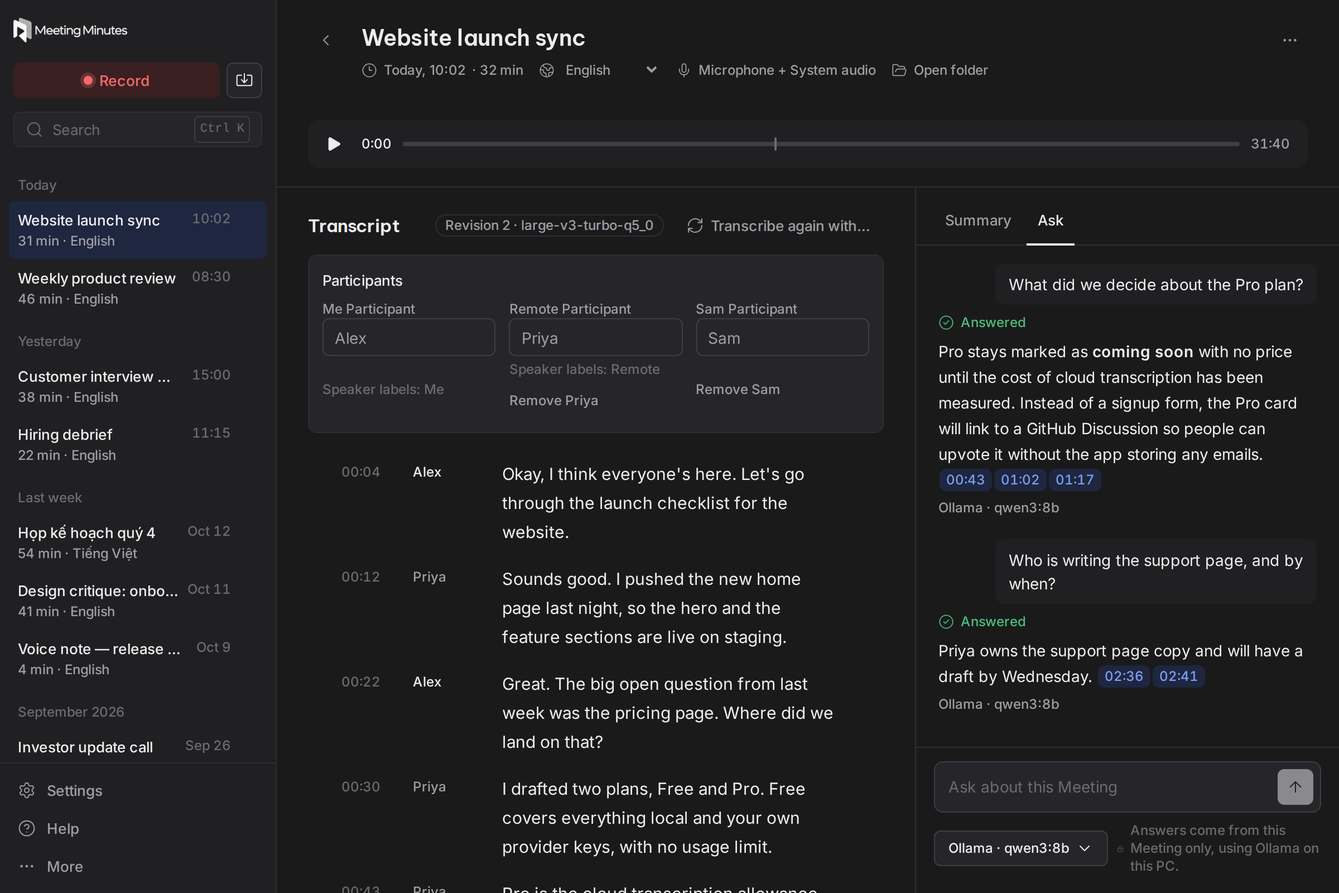
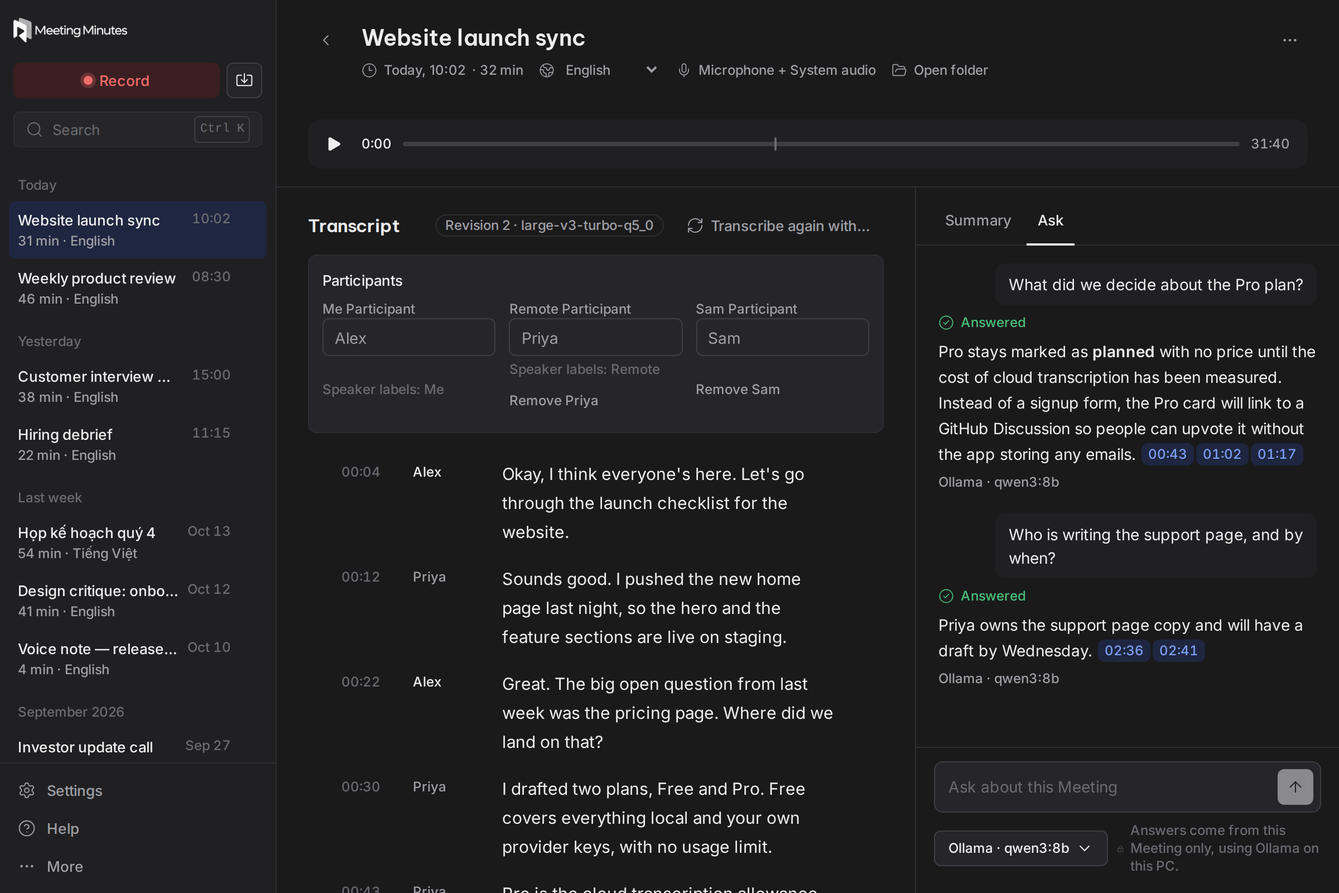
Prepare the 1.0.0 release: direct download with SHA-256, professional wording, release notes and current screenshots

Changed region(s): [[0.6875, 0.375, 0.9688, 0.8125], [0.125, 0.7188, 0.1562, 0.75]]

diff --git a/website/src/home.html b/website/src/home.html
@@ -1,6 +1,6 @@
 <section class="hero"><div class="wrap">
   <h1>Your meetings, written down.</h1>
-  <p class="lede">Record a call on Windows. Meeting Minutes transcribes it locally or with your own cloud key, then links Answers to Transcript Segments.</p>
+  <p class="lede">Record a call on Windows or Import audio. Meeting Minutes transcribes it locally or with your own cloud key, then links Answers to Transcript Segments.</p>
   <div class="cta">{{HERO_ACTION}}</div>
 </div></section>
 <div class="hero-shot wrap">{{SCREEN_MEETING}}</div>
@@ -9,14 +9,14 @@
   <h2>Everything a meeting leaves behind, without taking notes</h2>
   <div class="three">
     <div><h3>Record any call</h3><p>Zoom, Teams, Meet or a phone on speaker. It records your Microphone and what your PC plays, so there is nothing to install in the meeting.</p></div>
-    <div><h3>Transcription your way</h3><p>English, Vietnamese, Spanish, French, German, Portuguese, Italian, Japanese, Korean, Chinese and Hindi. Auto-detect the Meeting language, use local Whisper, or add your own Groq or Gemini key for cloud transcription.</p></div>
+    <div><h3>Transcription your way</h3><p>English, Vietnamese, Spanish, French, German, Portuguese, Italian, Japanese, Korean, Chinese and Hindi. Auto-detect the Meeting language, use local Whisper, or add your own Groq or Gemini key for cloud transcription. Download or delete local models in Settings, or re-transcribe with one chosen Speech-to-text model.</p></div>
     <div><h3>Answers you can check</h3><p>Summary items and Answers include Citations to Transcript Segments. Click a Citation to hear the source.</p></div>
   </div>
 </div></section>
 
 <section class="section alt"><div class="wrap">
   <h2>See what matters in each Meeting</h2>
-  <div class="split"><div class="copy"><h3>Ask about one Meeting</h3><p>What did we decide? Who owns the next step? Answers must cite Segments from that Meeting. The app flags invalid Citations and shows “Insufficient evidence” when nothing in the Transcript supports an answer.</p></div>{{SCREEN_ASK}}</div>
+  <div class="split"><div class="copy"><h3>Ask about one Meeting</h3><p>What did we decide? Who owns the next step? Choose a Language model for each Ask or Summary. Answers must cite Segments from that Meeting. The app flags invalid Citations and shows “Insufficient evidence” when nothing in the Transcript supports an answer.</p></div>{{SCREEN_ASK}}</div>
   <div class="split flip"><div class="copy"><h3>A Transcript you can fix</h3><p>See who spoke, you or the other side. Correct a word and the Citations still point to the right place. Play any Segment with one click.</p></div>{{SCREEN_TRANSCRIPT}}</div>
   <div class="split"><div class="copy"><h3>Find a moment in your Library</h3><p>Search keywords across your Meetings’ Transcripts. Open a result to jump to the matching Segment.</p></div>{{SCREEN_SEARCH}}</div>
 </div></section>
@@ -24,7 +24,7 @@
 <section class="section privacy-section"><div class="wrap">
   <h2>Private by default, in plain words</h2>
   <div class="privacy-grid">
-    <div><h3>Your Library stays on your PC</h3><p>Your Meeting files stay in your Library. With your keys, Groq can receive audio for transcription; Gemini can receive audio for fallback transcription or Transcript text for Correction.</p></div>
+    <div><h3>Your Library stays on your PC</h3><p>Your Meeting files stay in your Library as plain files. The Privacy tab in the app shows where data can leave your PC. With your keys, Groq can receive audio for transcription; Gemini can receive audio for fallback transcription or Transcript text for Correction.</p></div>
     <div><h3>Your own cloud keys</h3><p>Summary, Action items and Ask can use Gemini, OpenAI or Anthropic. The app asks before sending a Meeting. Gemini's free tier may use content for training.</p></div>
     <div><h3>Managed transcription is experimental</h3><p>You can request a Managed key, which is issued by hand. Saving it in Settings allows audio to go to the Meeting Minutes service. The app has no telemetry. <a href="/request-a-key/">Request a key</a>.</p></div>
   </div>
@@ -40,7 +40,7 @@
     <div class="faq-item"><h3><button aria-expanded="true" aria-controls="faq-upload">Does anything get uploaded?<span class="plus" aria-hidden="true">+</span></button></h3><div class="answer" id="faq-upload"><div class="answer-inner">Local Processing stays on your PC. With a Groq key, audio goes to Groq for transcription; Gemini can receive audio for fallback transcription and Transcript text for Correction. If you save a Managed key, audio goes to the Meeting Minutes service for transcription, which forwards it to Groq. The app asks before sending a Meeting for a cloud Summary or Ask. Model downloads and update checks also use the internet. <a href="/privacy/">Read the privacy policy</a>.</div></div></div>
     <div class="faq-item"><h3><button aria-expanded="true" aria-controls="faq-warn">Why does Windows warn me when I install it?<span class="plus" aria-hidden="true">+</span></button></h3><div class="answer" id="faq-warn"><div class="answer-inner">The installer is unsigned. See the <a href="/support/#smartscreen">SmartScreen instructions</a> before installing.</div></div></div>
     <div class="faq-item"><h3><button aria-expanded="true" aria-controls="faq-lang">Which languages does it understand?<span class="plus" aria-hidden="true">+</span></button></h3><div class="answer" id="faq-lang"><div class="answer-inner">English, Vietnamese, Spanish, French, German, Portuguese, Italian, Japanese, Korean, Chinese and Hindi. Choose one for a Meeting or let the app detect it automatically.</div></div></div>
-    <div class="faq-item"><h3><button aria-expanded="true" aria-controls="faq-pc">Do I need a powerful PC?<span class="plus" aria-hidden="true">+</span></button></h3><div class="answer" id="faq-pc"><div class="answer-inner">The setup guide recommends a transcription model for your hardware. Larger models need more memory and time.</div></div></div>
+    <div class="faq-item"><h3><button aria-expanded="true" aria-controls="faq-pc">Do I need a powerful PC?<span class="plus" aria-hidden="true">+</span></button></h3><div class="answer" id="faq-pc"><div class="answer-inner">First-run setup can be skipped. The guide recommends a transcription model for your hardware, and you can download or delete local models later in Settings. Larger models need more memory and time.</div></div></div>
     <div class="faq-item"><h3><button aria-expanded="true" aria-controls="faq-uninstall">How do I uninstall it, and do I keep my meetings?<span class="plus" aria-hidden="true">+</span></button></h3><div class="answer" id="faq-uninstall"><div class="answer-inner">Uninstall it from Windows Settings → Apps. Your Library in Documents\Meeting Minutes stays. The uninstaller offers a separate option to remove app data.</div></div></div>
   </div>
 </div></section>

diff --git a/website/src/support.html b/website/src/support.html
@@ -1,19 +1,19 @@
 <article class="doc"><h1>Support</h1><p class="updated">Help with Meeting Minutes for Windows</p>
-  <h2>Write to us</h2><p>Email Duc Dao at <a href="mailto:admin@meeting-minutes.tech">admin@meeting-minutes.tech</a>.</p>
+  <h2>Write to us</h2><p>Contact: <a href="mailto:admin@meeting-minutes.tech">admin@meeting-minutes.tech</a>.</p>
   <div class="copybox"><span id="support-email" tabindex="-1">admin@meeting-minutes.tech</span><button class="button secondary copy-button" type="button" data-copy="support-email">Copy</button></div><p class="copy-result" role="status" aria-live="polite"></p>
   <p>Or <a href="https://github.com/ducdv98/meeting-minutes/issues">open an issue on GitHub</a>. GitHub issues are public; email is private.</p>
   <h2>Managed transcription</h2><p>Managed transcription is experimental. <a href="/request-a-key/">Request a key</a> if you would like to try it. Keys are issued by hand; we cannot promise a reply or turnaround time.</p>
   <h2>Include diagnostics</h2><ol class="steps"><li><div>In the app, open Help.</div></li><li><div>Choose Copy diagnostics.</div></li><li><div>Paste it into your message. It includes versions, devices and recent log lines, not Transcript text or keys.</div></li></ol>
   <div class="support-shot">{{SCREEN_DIAGNOSTICS}}</div>
-  <h2>Choose a transcription model</h2><p>The first-run guide recommends a model for your PC. You can review the choice before downloading it.</p>
+  <h2>Choose a transcription model</h2><p>First-run setup can be skipped. The guide recommends a model for your PC. You can review the choice before downloading it, then download or delete local models in Settings.</p>
   <div class="support-shot">{{SCREEN_FIRSTRUN_MODEL}}</div>
   <h2 id="smartscreen">Windows says it protected your PC</h2><p>Meeting Minutes is free and its source is public. The installer is unsigned because we do not use a paid code-signing certificate. Windows SmartScreen may warn you. Download it only from this site or the <a href="https://github.com/ducdv98/meeting-minutes/releases">GitHub Releases page</a>. After checking the file and deciding you trust it, choose <strong>More info</strong> and <strong>Run anyway</strong> if Windows offers those options.</p>
-  <h2>Verify the installer</h2><ol class="steps">
+  <h2>Verify your download</h2><ol class="steps">
     <li><div>Download the installer and its matching <code>.sha256</code> file from the same GitHub Release.</div></li>
-    <li><div>In PowerShell, run this command, replacing <code>installer.exe</code> with the downloaded file name. Compare the hash with the first value in the <code>.sha256</code> file.
-      <pre class="command"><code>Get-FileHash ".\installer.exe" -Algorithm SHA256</code></pre></div></li>
+    <li><div>In PowerShell, run this command, replacing <code>&lt;installer&gt;</code> with the downloaded file name. Compare the hash with the first value in the <code>.sha256</code> file.
+      <pre class="command"><code>Get-FileHash .\&lt;installer&gt; -Algorithm SHA256</code></pre></div></li>
     <li><div>With the <a href="https://cli.github.com/">GitHub CLI</a>, run this command using the same file name. This checks that GitHub's release workflow produced that installer.
-      <pre class="command"><code>gh attestation verify ".\installer.exe" --repo ducdv98/meeting-minutes</code></pre></div></li>
+      <pre class="command"><code>gh attestation verify &lt;installer&gt; --repo ducdv98/meeting-minutes</code></pre></div></li>
   </ol>
   <p>You can also <a href="https://github.com/ducdv98/meeting-minutes#develop-and-build-on-windows">build it yourself</a> from the public source.</p>
   <h2>Uninstalling</h2><p>Use Settings → Apps in Windows. Your Library in Documents\Meeting Minutes is kept. The uninstaller offers an unticked option to remove downloaded models, settings and the search index.</p>

diff --git a/scripts/screenshots/demo-data.ts b/scripts/screenshots/demo-data.ts
@@ -53,7 +53,7 @@ const lines: [Segment["speaker"], number, number, string][] = [
   ["remote", 53, 61, "I'd still like a way for people to tell us they want Pro, though, without building a signup form."],
   ["me", 62, 70, "What if the Pro card links to a GitHub Discussion? People can upvote it and we don't store any emails."],
   ["remote", 71, 76, "That works for me. It keeps the privacy page simple too."],
-  ["remote", 77, 88, "Agreed. Let's do the Discussion link, and keep Pro marked as coming soon until checkout actually exists."],
+  ["remote", 77, 88, "Agreed. Let's do the Discussion link, and keep Pro marked as planned until checkout actually exists."],
   ["me", 89, 95, "Decided, then. Next: screenshots. The site still has placeholder frames."],
   ["remote", 96, 108, "I can script them. Run the app with demo data, capture light and dark at twelve hundred by eight hundred."],
   ["me", 109, 116, "Can you have them ready by Thursday? I want the launch post drafted by Friday."],
@@ -119,7 +119,7 @@ export const summary: Summary = {
     { text: "The large turbo model handles Spanish and Japanese well; the small model struggles with Japanese names.", citations: cite("s00020") },
   ],
   decisions: [
-    { text: "The Pro card links to a GitHub Discussion instead of a signup form, and stays marked as coming soon.", citations: cite("s00007", "s00009") },
+    { text: "The Pro card links to a GitHub Discussion instead of a signup form, and stays marked as planned.", citations: cite("s00007", "s00009") },
     { text: "Every release gets a SHA-256 checksum and build attestation.", citations: cite("s00015", "s00016") },
     { text: "First-run setup recommends the turbo model for non-English languages.", citations: cite("s00021", "s00022") },
   ],
@@ -142,7 +142,7 @@ export const asks: AskView = {
       provider: "ollama",
       model: "qwen3:8b",
       state: "answered",
-      answer: "Pro stays marked as **coming soon** with no price until the cost of cloud transcription has been measured. Instead of a signup form, the Pro card will link to a GitHub Discussion so people can upvote it without the app storing any emails.",
+      answer: "Pro stays marked as **planned** with no price until the cost of cloud transcription has been measured. Instead of a signup form, the Pro card will link to a GitHub Discussion so people can upvote it without the app storing any emails.",
       citations: cite("s00005", "s00007", "s00009"),
       invalid_citations: [],
       error: null,

diff --git a/src/HelpView.tsx b/src/HelpView.tsx
@@ -67,7 +67,7 @@ export default function HelpView({ onOpenGuide }: { onOpenGuide?: () => void }) 
         <Wordmark className="h-10 w-[210px]" />
         <dl className="m-0 grid grid-cols-[180px_1fr] gap-x-4 gap-y-2 text-sm tabular-nums">
           <dt className="text-ink-muted">Version</dt><dd className="m-0">{info ? info.version : infoFailed ? "Unknown" : <Skeleton className="h-4 w-16" />}</dd>
-          <dt className="text-ink-muted">Made by</dt><dd className="m-0">Duc Dao</dd>
+          <dt className="text-ink-muted">Copyright</dt><dd className="m-0">© 2026 Meeting Minutes · Duc Dao</dd>
           <dt className="text-ink-muted">Support</dt><dd className="m-0"><button type="button" className={linkClass} onClick={() => void open("support")}>admin@meeting-minutes.tech</button></dd>
           <dt className="text-ink-muted">Privacy</dt><dd className="m-0"><button type="button" className={linkClass} onClick={() => void open("privacy")}>meeting-minutes.tech/privacy</button></dd>
         </dl>

diff --git a/website/src/style.css b/website/src/style.css
@@ -25,6 +25,7 @@
 .copybox span:focus{outline:2px solid var(--accent);outline-offset:2px}
 @media(max-width:1100px){.header-download span{display:none}}
 .split:not(:has(.screenshot)),.split.flip:not(:has(.screenshot)){grid-template-columns:1fr}.split.flip:not(:has(.screenshot)) .copy{order:0}.hero-shot:empty,.support-shot:empty{display:none}
+.cta .checksum{max-width:100%;overflow-wrap:anywhere}.cta .checksum code{font-size:inherit}
 .hero{animation:none}.hero h1,.hero .lede,.hero .cta{animation:hero-fly-in 700ms var(--ease) both}.hero .lede{animation-delay:120ms}.hero .cta{animation-delay:240ms}
 @keyframes hero-fly-in{from{opacity:0;transform:translateY(36px)}to{opacity:1;transform:none}}
 .hero-shot{animation:shot-arrive 850ms var(--ease) 300ms both}.hero-shot .screenshot{animation:shot-float 2.4s ease-in-out 1150ms infinite alternate}

diff --git a/src/HelpView.test.tsx b/src/HelpView.test.tsx
@@ -17,12 +17,14 @@ beforeEach(() => {
 });
 afterEach(() => { cleanup(); vi.resetAllMocks(); });
 
-it("shows the app version without a release badge", async () => {
+it("shows the app version and copyright", async () => {
   render(<HelpView />);
   const about = screen.getByRole("region", { name: "About" });
   expect(await within(about).findByText("0.1.7")).toBeTruthy();
   expect(within(about).queryByText("Beta")).toBeNull();
-  expect(within(about).getByText("Duc Dao")).toBeTruthy();
+  expect(within(about).getByText("Copyright")).toBeTruthy();
+  expect(within(about).getByText("© 2026 Meeting Minutes · Duc Dao")).toBeTruthy();
+  expect(within(about).queryByText("Made by")).toBeNull();
 });
 
 it("copies fresh diagnostics before opening a prefilled GitHub issue", async () => {

diff --git a/website/src/pricing.html b/website/src/pricing.html
@@ -15,7 +15,7 @@
     </article>
     <article class="plan-card">
       <h2>Pro plan</h2>
-      <p class="plan-status">Coming soon</p>
+      <p class="plan-status">Planned</p>
       <p>Pro is planned with a larger Managed transcription allowance. It is not available to purchase yet.</p>
       <p><a class="button secondary" href="https://github.com/ducdv98/meeting-minutes/discussions">I'd pay for Pro</a></p>
     </article>

diff --git a/website/src/privacy.html b/website/src/privacy.html
@@ -51,5 +51,5 @@
 
   <h2>Children</h2><p>Meeting Minutes is not directed at children.</p>
   <h2>Changes</h2><p>Changes to this policy will be posted here with a new last-updated date.</p>
-  <h2>Contact</h2><p>Duc Dao · <a href="mailto:admin@meeting-minutes.tech">admin@meeting-minutes.tech</a></p>
+  <h2>Contact</h2><p>Contact: <a href="mailto:admin@meeting-minutes.tech">admin@meeting-minutes.tech</a></p>
 </article>

diff --git a/website/DESIGN.md b/website/DESIGN.md
@@ -26,22 +26,22 @@ In this order:
 
 1. **Hero.** Headline (`--display`, sentence case, at most two lines), one sentence beneath it (`--text-lg`, `--ink-muted`), the primary action, and a status line under the button.
    - Headline direction: "Your meetings, written down and on your PC." Final copy follows the voice rules.
-   - Primary action, when a Release is published: "Download for Windows" (ink primary button) with the version and size under it, plus "Windows 11 · Free · unsigned, see why" linking to the SmartScreen note.
-   - With no published Release: no download button. Say only that the Windows app is coming.
+   - Primary action, when a Release is published: "Download for Windows" (ink primary button) with version, size, “Windows 11, 64-bit”, the SHA-256 from its matching Release asset, and the unsigned SmartScreen note beneath it.
+   - With no published Release: no download button. Show a neutral “No public download available” status.
    - Below: a large real screenshot of the Meeting view (Transcript, Summary with Citations), `--radius-lg`, 1px `--line` edge, no device frame, light screenshot in light mode and dark in dark.
 2. **What it does.** Three short blocks in a row (stacked on mobile), each a `--heading-sm` title and one or two sentences, no icons in bubbles: Record any call (Microphone and System audio, any meeting app). Transcription your way (the eleven Meeting languages with Auto-detect; local Whisper by default, or the user's own Groq or Gemini key). Answers with Citations (every Summary item and Answer points to the moment it came from).
 3. **Product sections.** Two or three 5/7 text-and-screenshot rows, each showing one real feature: Ask with cited Answers; the Transcript with Speaker labels and playback; Library search. Screenshots of real UI only.
 4. **Privacy, plainly.** A `--panel` section: what stays on the PC (the Library folder), what goes to a provider under the user's own key (audio to Groq or Gemini for transcription and Transcript text to Gemini for Correction once a key is added; Transcript text to Gemini, OpenAI or Anthropic for Summary and Ask only when the user clicks), that Gemini's free tier may use content for training, no telemetry, and optional experimental Managed transcription through a hand-issued key. Link to the privacy policy and Request a key.
 5. **Works with any call app.** One sentence: it records what the PC plays and what the microphone hears, so Zoom, Teams, Google Meet and others work without an integration. Text only, no third-party logos.
 6. **FAQ.** Full-width accordion rows with 1px `--line` dividers and a `+` that rotates to `×`. Questions: Is it free? Where are my meetings stored? Does anything get uploaded? Why does Windows warn me when I install it? Which languages does it understand? Do I need a powerful PC? How do I uninstall it, and do I keep my meetings?
-7. **Closing call to action.** Centred: one line in `--heading-lg` and the same primary action as the hero (or the Windows app is coming status when nothing is published).
-8. **Footer.** Wordmark, one sentence, links (Pricing, Request a key, Privacy, Support, Changelog, GitHub), "Made by Duc Dao", `admin@meeting-minutes.tech`, and the year.
+7. **Closing call to action.** Centred: one line in `--heading-lg` and the same primary action as the hero (or the neutral unavailable status when nothing is published).
+8. **Footer.** Wordmark, one sentence, links (Pricing, Request a key, Privacy, Support, Changelog, GitHub), “Meeting Minutes. A local-first meeting recorder for Windows.”, “© 2026 Meeting Minutes · Duc Dao”, and `admin@meeting-minutes.tech`.
 
 Do not add customer logos, metrics, testimonials or use-case pages.
 
 ### Pricing
 
-Two plan cards: Free plan and Pro plan. Free shows $0 forever and the Windows app's actual release availability for local Processing and the user's own provider keys. Managed transcription is experimental: the user can request a Managed key, issued by hand; the card does not promise access, a reply time or a fixed allowance. Pro is marked “Coming soon” and has no price. A reading-width section explains Processed audio minutes, the monthly reset and transcription fallback. Cards use the site's surface, border and spacing tokens, stack at mobile widths, and use text for every availability state. No purchase or registration action appears until those flows exist.
+Two plan cards: Free plan and Pro plan. Free shows $0 forever and the Windows app's actual release availability for local Processing and the user's own provider keys. Managed transcription is experimental: the user can request a Managed key, issued by hand; the card does not promise access, a reply time or a fixed allowance. Pro is marked “Planned” and has no price. A reading-width section explains Processed audio minutes, the monthly reset and transcription fallback. Cards use the site's surface, border and spacing tokens, stack at mobile widths, and use text for every availability state. No purchase or registration action appears until those flows exist.
 
 ### Request a key
 
@@ -53,7 +53,7 @@ A plain reading page in the reading width: `--heading-lg` title, last-updated da
 
 ### Support
 
-How to get help: email, GitHub issues, how to use Help → Copy diagnostics in the app (with a screenshot), the SmartScreen walkthrough, and how to uninstall while keeping the Library.
+How to get help: contact email, GitHub issues, how to use Help → Copy diagnostics in the app (with a screenshot), the SmartScreen walkthrough, a “Verify your download” section with PowerShell SHA-256 and GitHub provenance commands, and how to uninstall while keeping the Library.
 
 ### Changelog
 
@@ -89,7 +89,7 @@ WCAG AA contrast (guaranteed by the identity tokens), semantic headings in order
 
 - A static site in `website/`, built in CI and deployed to `meeting-minutes.tech`. No client-side framework is needed; keep JavaScript to the accordion, theme handling, the request email draft and small page interactions.
 - Fonts self-hosted (Be Vietnam Pro, Inter). No third-party scripts, trackers, analytics or font CDNs, matching the app's privacy promise.
-- The latest published Release (version, date, size, installer URL) and the changelog are fetched from the GitHub API at build time, not in the browser.
+- The latest published Release (version, date, size, installer URL and SHA-256) and the changelog are fetched from the GitHub API at build time, not in the browser.
 - Light and dark follow the system; no theme toggle needed.
 
 ## Acceptance criteria
@@ -97,7 +97,7 @@ WCAG AA contrast (guaranteed by the identity tokens), semantic headings in order
 - [ ] Every colour, font, radius and motion value comes from the identity tokens.
 - [ ] Side by side with the app, the site reads as the same product.
 - [ ] Nothing on the site claims a download, user, metric or feature that does not exist.
-- [ ] The download area matches the latest published Release, or says only that the Windows app is coming when there is none.
+- [ ] The download area matches the latest published Release, or has no download link when there is none.
 - [ ] No roadmap or target date appears in public copy.
 - [ ] Works at all listed widths, in light and dark, with reduced motion, by keyboard.
 - [ ] No third-party requests in the browser's network panel.

diff --git a/website/README.md b/website/README.md
@@ -11,11 +11,11 @@ node --test website/test/
 node website/build.mjs --draft --offline
 ```
 
-Serve `website/dist/` with any static file server. The draft build uses neutral “Screenshot” frames where assets are missing. `--offline` gives an empty release list; `--fixture path/to/releases.json` loads a GitHub Releases API array for local checks. `--output path/to/directory` writes to another directory. Omit both release flags to fetch Releases from GitHub. `GITHUB_TOKEN` is used if set.
+Serve `website/dist/` with any static file server. The draft build uses neutral “Screenshot” frames where assets are missing. `--offline` gives an empty release list; `--fixture website/test/release-fixture.json` loads a GitHub Releases API array for local checks. A checksum asset in a fixture uses `fixture_path`, relative to the JSON file, or inline `content` for its `.sha256` contents. `--output path/to/directory` writes to another directory. Omit both release flags to fetch Releases from GitHub. `GITHUB_TOKEN` is used if set.
 
 The Request a key page uses a pre-filled email draft. It has no form backend. The pricing page describes the Managed key allowance without promising a specific number of minutes during the experiment.
 
-Run `node website/build.mjs --check-ready` to list what blocks publishing; it exits successfully and writes `ready=true` or `ready=false` to `GITHUB_OUTPUT` when set. The privacy page must be the real policy (no `PRIVACY_STUB_TICKET_14` marker). Before the first published Release, missing screenshots don't block: the published site leaves those images out and is text-only. Once a Release is published, all twelve screenshots listed in [`src/assets/screens/README.md`](src/assets/screens/README.md) are required. If the newest published Release has no NSIS `.exe` asset, the build uses the newest published Release that does.
+Run `node website/build.mjs --check-ready` to list what blocks publishing; it exits successfully and writes `ready=true` or `ready=false` to `GITHUB_OUTPUT` when set. The privacy page must be the real policy (no `PRIVACY_STUB_TICKET_14` marker). Once a Release is published, all twelve screenshots listed in [`src/assets/screens/README.md`](src/assets/screens/README.md) are required. A published Release needs a valid NSIS `.exe` and a matching readable `.sha256` asset. The build fails when either is missing or invalid; it does not expose an older installer.
 
 ## One-time owner setup
 
@@ -26,6 +26,6 @@ The site is served by a static-only Cloudflare Worker (`wrangler.jsonc`) on the 
 3. Keep **Web Analytics** and **Bot Fight Mode** off for the zone: the privacy policy promises no analytics, and Bot Fight Mode sets a `__cf_bm` cookie.
 4. Run the **Website** workflow (or push to `main`). While screenshots are missing, the deploy job lists them in the run summary and skips deploying. After the first deploy, open https://meeting-minutes.tech/ and check HTTPS.
 
-Publishing a Release triggers the website workflow so the download URL, version, size and Changelog refresh from GitHub Releases. Do not deploy a `--draft` build.
+Publishing a Release triggers the website workflow so the download URL, version, size, SHA-256 and Changelog refresh from GitHub Releases. Do not deploy a `--draft` build.
 
-The Changelog shows the cloud transcription work as **In development** above the published Release notes. It does not imply a public download is available.
+The Changelog shows only published Release notes. The hero download links to the selected NSIS installer and displays its SHA-256, version, size and Windows requirement. Release notes are maintained in `RELEASE_NOTES/v1.0.0.md` and copied into the draft Release before the workflow appends verification details.

diff --git a/.scratch/website-1-0/spec.md b/.scratch/website-1-0/spec.md
@@ -1,0 +1,19 @@
+# Website for the 1.0.0 release
+
+Status: ready-for-agent
+
+Goal: when v1.0.0 is published, meeting-minutes.tech offers a direct Windows download with a visible SHA-256, reads professionally, shows a 1.0.0 Changelog, and has current screenshots and copy.
+
+Decisions (grilled with the owner):
+- Bump the app to 1.0.0 (package.json, src-tauri/tauri.conf.json, src-tauri/Cargo.toml), tag v1.0.0 later. The owner publishes the Release; nothing is tagged, pushed or published by the agent.
+- Download button links straight to the NSIS .exe of the latest published Release. Under it: version, size, "Windows 11, 64-bit", the SHA-256 (read at build time from the Release's `.sha256` asset), and the existing unsigned/SmartScreen note.
+- A published-Release build with no readable SHA-256 fails rather than ship a download without it.
+- Support page gets a "Verify your download" section: `Get-FileHash .\<installer> -Algorithm SHA256` and `gh attestation verify <installer> --repo ducdv98/meeting-minutes`.
+- Remove "Windows app is coming" text and the text-only/no-screenshot allowance once a Release exists.
+- Pro card: "Planned", no date, no "Coming soon".
+- Footer: "Meeting Minutes. A local-first meeting recorder for Windows." and "© 2026 Meeting Minutes · Duc Dao". Privacy and Support: "Contact: admin@meeting-minutes.tech", no "Email Duc Dao". Reword llms.txt the same way.
+- Changelog: remove the hard-coded "Cloud transcription · In development" entry; 1.0.0 comes from the GitHub Release body, which comes from a repo file `RELEASE_NOTES/v1.0.0.md` that release.yml uses as the draft body (followed by the SHA-256 lines it already adds).
+- Re-run scripts/screenshots and replace all 12 website screenshots.
+- Copy covers: skippable first-run setup, 11 languages with Auto-detect, download/delete local models in Settings, choosing a Language model per Ask or Summary, re-transcribing with one chosen model, Managed key, Privacy tab showing where data can leave the PC. No accuracy/speed claims. No Accounts. Use CONTEXT.md terms.
+
+Out of scope: signing the installer, tagging, publishing, pushing.

diff --git a/RELEASE_NOTES/v1.0.0.md b/RELEASE_NOTES/v1.0.0.md
@@ -1,0 +1,22 @@
+Meeting Minutes 1.0.0 is the first release.
+
+## Record and keep Meetings
+
+- Record Microphone and System audio from any Windows call app, or Import an existing audio file.
+- Keep each Meeting in the local Library as readable audio and Transcript files.
+
+## Turn audio into a Transcript
+
+- Transcribe locally with Whisper, or use your own Groq or Gemini key for cloud transcription.
+- Choose a Meeting language from 11 supported languages, or use Auto-detect.
+- Re-transcribe with one chosen Speech-to-text model when needed.
+
+## Understand and Ask
+
+- Generate a Summary and Action items with Citations to Transcript Segments.
+- Ask questions about one Meeting and follow Citations back to the audio.
+
+## Optional Managed transcription
+
+- Request a hand-issued Managed key to try experimental Managed transcription with a monthly allowance.
+- The app has no telemetry. Your Library remains on your PC; the Privacy tab shows where data can leave it.
